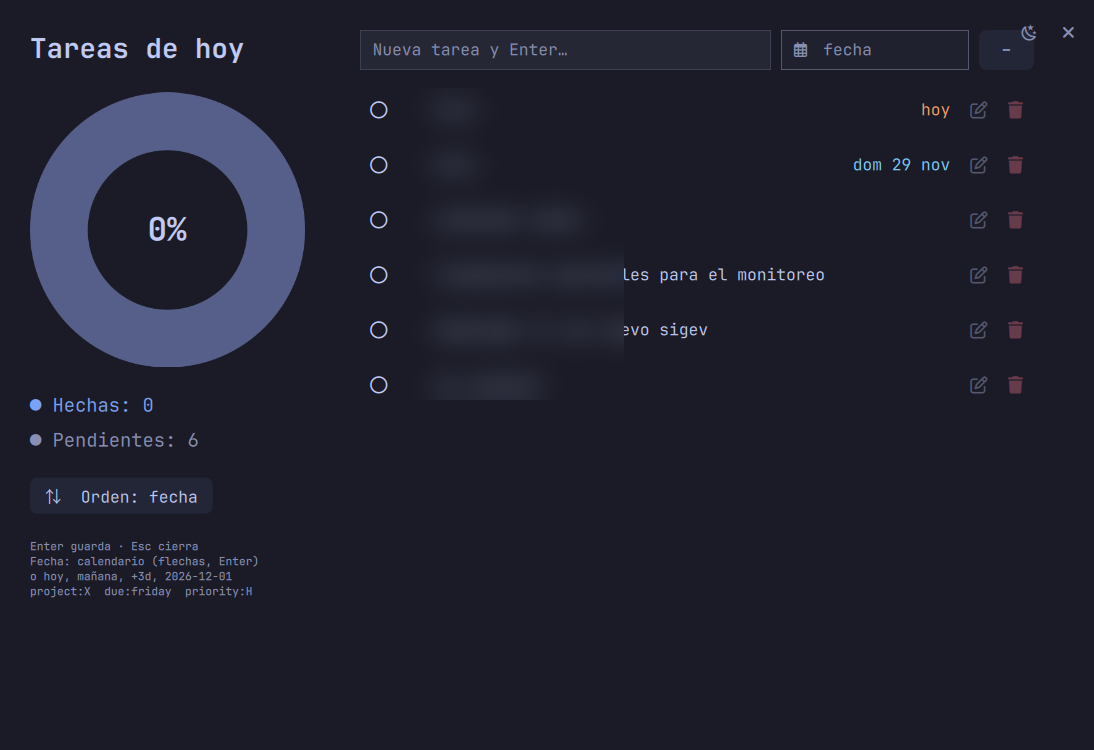
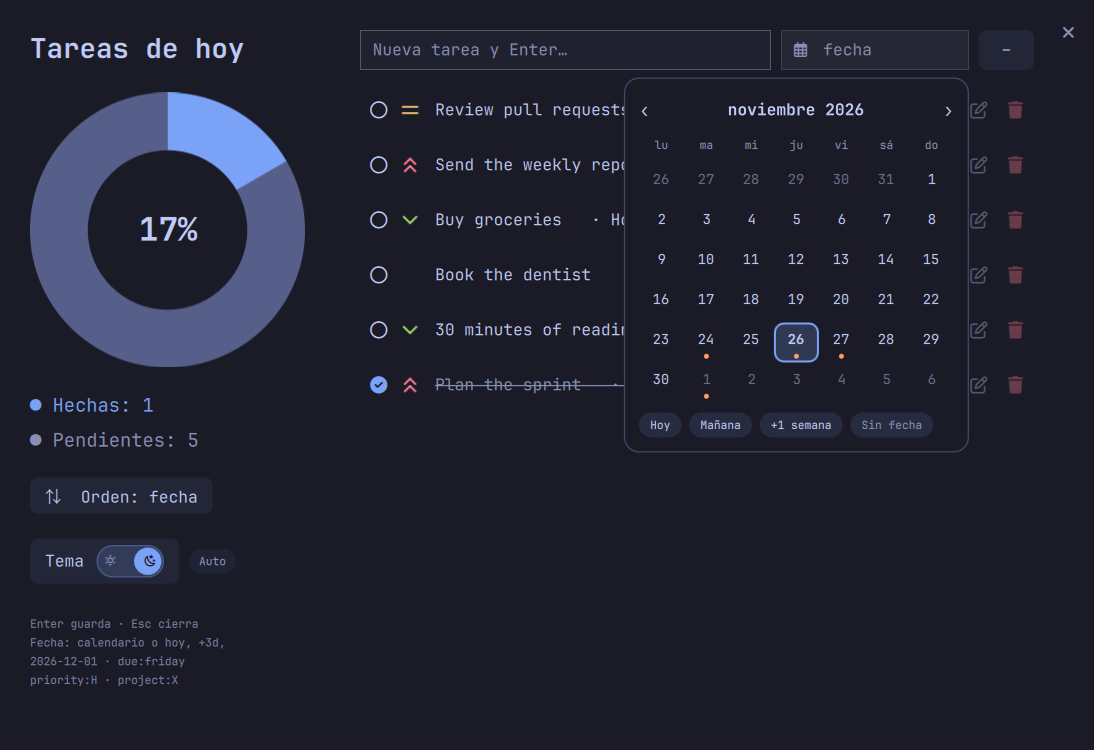
docs: replace the Omarchy screenshots with demo task data
The previous panel screenshots blurred only part of each task name and
showed the pre-1.2.0 header. These are taken from the current panel run
against demo tasks in a temporary TASKDATA, so no real task data appears.

diff --git a/README.md b/README.md
@@ -174,7 +174,7 @@ Updates replace the program, never your tasks.
 |---|---|
 | <img src="assets/screenshots/omarchy-bar.png" alt="Omarchy bar widget" width="380"> | <img src="assets/screenshots/windows-bar.png" alt="Windows bar" width="300"> |
 
-<sub>Omarchy screenshots are from a real desktop, with the owner's task names blurred (dots in the calendar mark days with tasks). Windows screenshots are captured automatically by CI on `windows-latest` from the built `taskline.exe`, using demo tasks with due dates and priority icons.</sub>
+<sub>Omarchy screenshots are from a real desktop running the panel against demo tasks in a temporary Taskwarrior data folder (dots in the calendar mark days with tasks). Windows screenshots are captured automatically by CI on `windows-latest` from the built `taskline.exe`, using demo tasks with due dates and priority icons.</sub>
 
 ## 🛠 Build from source
 
